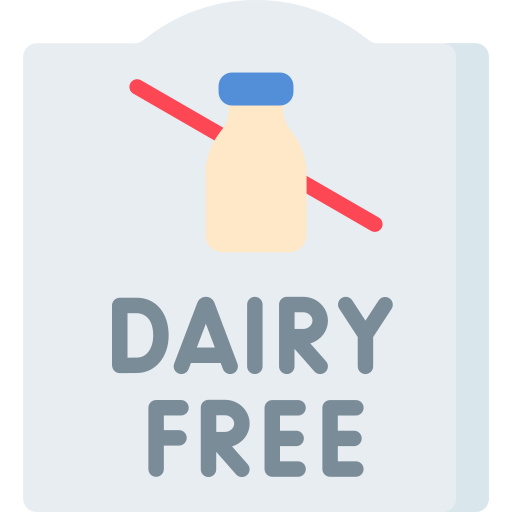
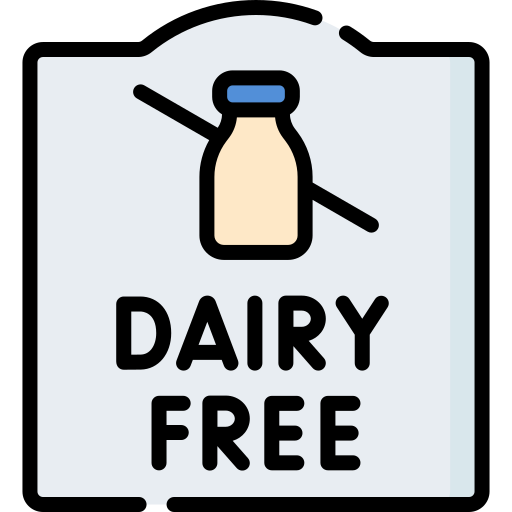
Change image for non-dairy and update names

diff --git a/app/YourProducts.tsx b/app/YourProducts.tsx
@@ -154,7 +154,7 @@ export default function YourProducts({ navigation }) {
             accessibilityLabel="Frozen Foods"
           />
         );
-      case "non-dairy products":
+      case "non-dairy":
         return (
           <Image
             source={require("../assets//images/dairy-free.png")}
@@ -162,7 +162,7 @@ export default function YourProducts({ navigation }) {
             accessibilityLabel="Non-Dairy Products"
           />
         );
-      case "plant-based proteins":
+      case "plant-based":
         return (
           <Image
             source={require("../assets//images/vegan.png")}
